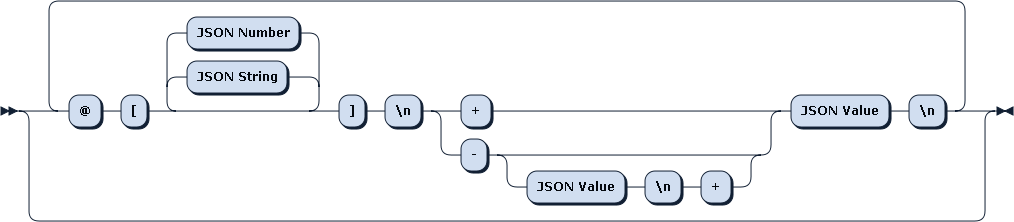
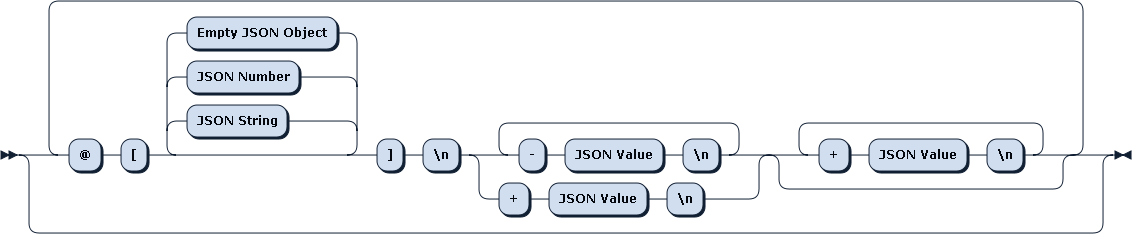
Update diff EBNF.

Changed region(s): [[0.0, 0.0, 1.0, 1.0], [0.0306, 0.973, 0.0611, 1.0]]

diff --git a/README.md b/README.md
@@ -17,11 +17,14 @@ When patching (-p) FILE1 is a diff.
 Options:
   -p        Apply patch FILE1 to FILE2 or STDIN.
   -o=FILE3  Write to FILE3 instead of STDOUT.
+  -set      Treat arrays as sets.
+  -mset     Treat arrays as multisets (bags).
 
 Examples:
   jd a.json b.json
   cat b.json | jd a.json
   jd -o patch a.json b.json; jd patch a.json
+  jd -set a.json b.json
 ```
 
 ## Library usage
@@ -63,7 +66,7 @@ func ExampleJsonNode_Patch() {
 ### EBNF
 
 ```EBNF
-Diff ::= ( '@' '[' ( 'JSON String' | 'JSON Number' )* ']' '\n' ( '+' | '-' ( 'JSON Value' '\n' '+' )? ) 'JSON Value' '\n' )*
+Diff ::= ( '@' '[' ( 'JSON String' | 'JSON Number' | 'Empty JSON Object' )* ']' '\n' ( ( '-' 'JSON Value' '\n' )+ | '+' 'JSON Value' '\n' ) ( '+' 'JSON Value' '\n' )* )*
 ```
 
 ### Examples
